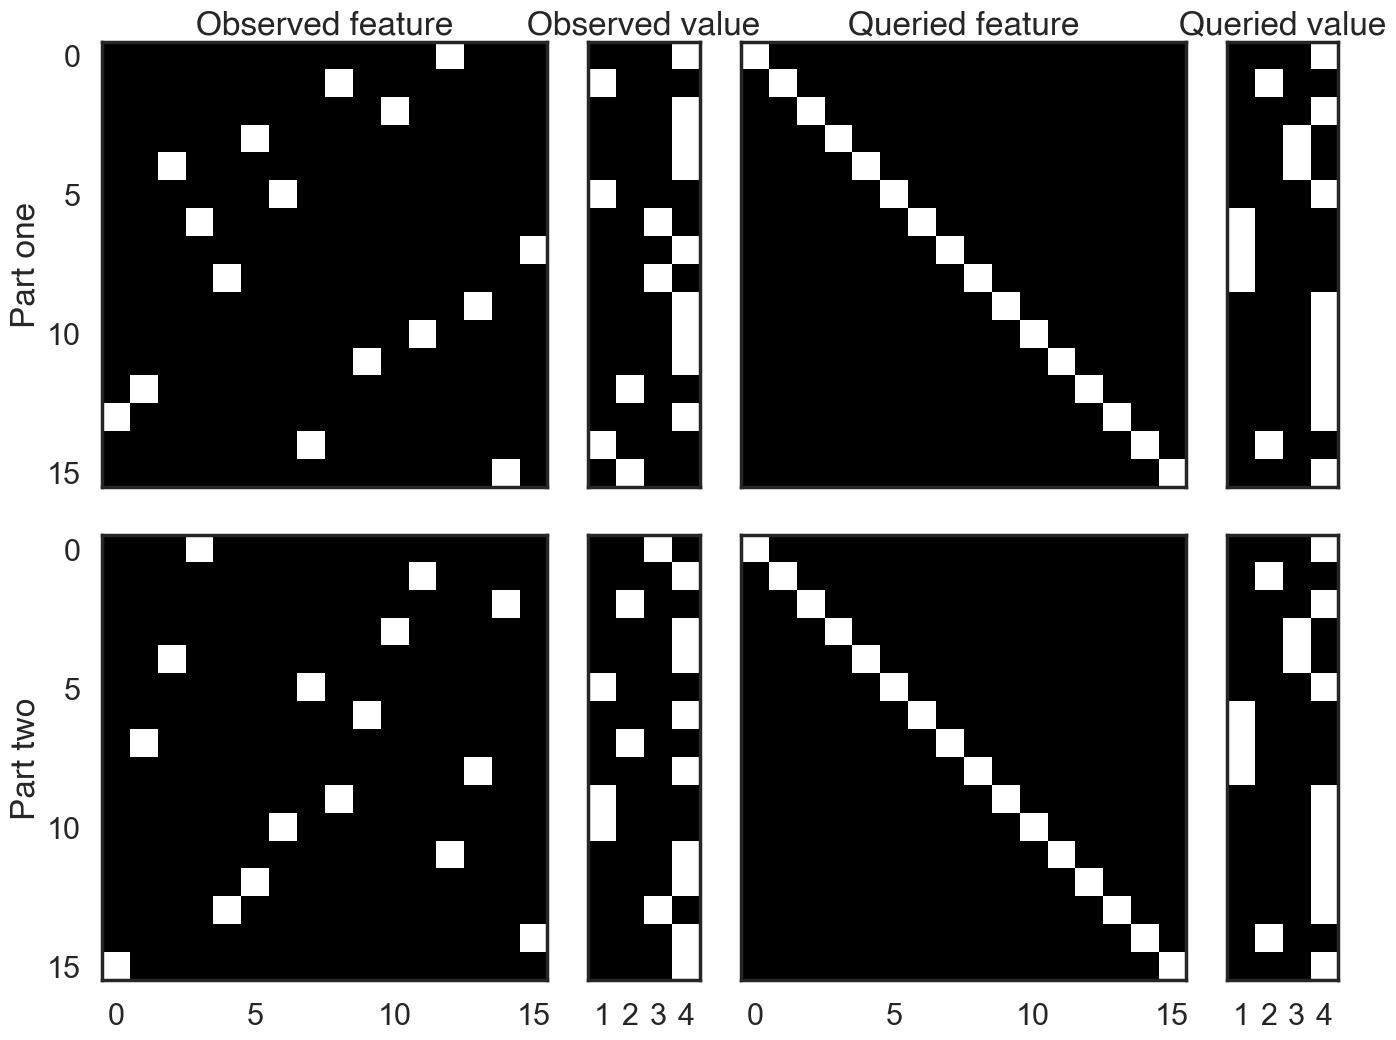
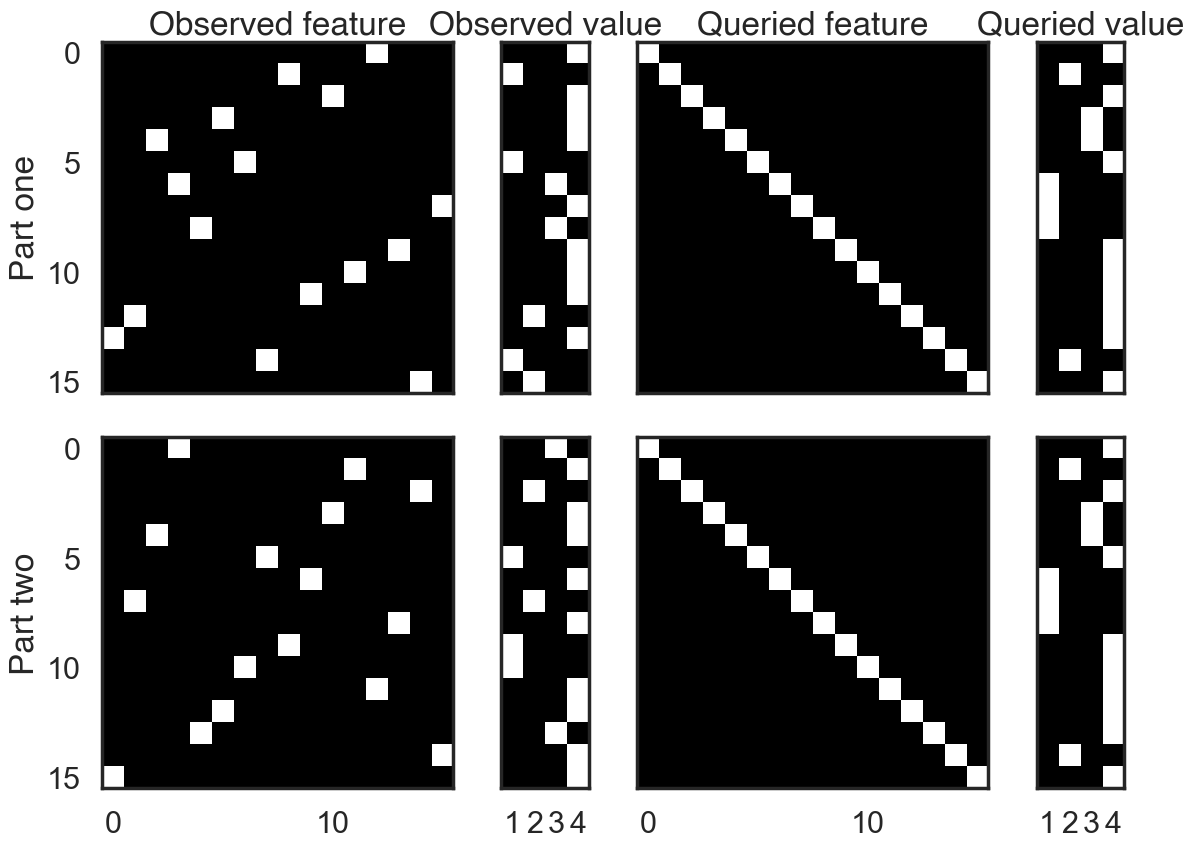
minor code

diff --git a/src/eval-group.py b/src/eval-group.py
@@ -4,6 +4,8 @@ import numpy as np
 
 from itertools import product
 from models import LCALSTM as Agent
+# from models import LCALSTM_after as Agent
+# from models import LCALSTM_after as Agent
 from task import SequenceLearning
 from exp_tz import run_tz
 from utils.params import P
@@ -11,9 +13,17 @@ from utils.io import build_log_path, load_ckpt, pickle_save_dict, \
     get_test_data_dir, get_test_data_fname, load_env_metadata
 log_root = '../log/'
 
+# exp_name = 'vary-test-penalty'
+# exp_name = 'vary-test-penalty-after-ig.3'
+# exp_name = 'vary-test-penalty-after-ig.3-enc8d4'
+# exp_name = 'familiarity-signal'
+# exp_name = 'vary-test-penalty-fixobs-rl'
 exp_name = 'vary-test-penalty'
-def_prob = None
+# def_prob = None
 n_def_tps = 0
+
+def_prob = .25
+# n_def_tps = 8
 
 seed = 0
 supervised_epoch = 600
@@ -22,9 +32,13 @@ epoch_load = 1000
 n_branch = 4
 n_param = 16
 enc_size = 16
+
+# enc_size_test = 16
+# dict_len_test = 2
+# rm_mid_targ = False
+
 enc_size_test = 8
 dict_len_test = 4
-# enc_size_test = enc_size
 rm_mid_targ = False
 
 penalty_random = 1
@@ -45,11 +59,14 @@ n_examples_test = 256
 similarity_max_test = .9
 similarity_min_test = 0
 
+permute_observations = True
+
 '''loop over conditions for testing'''
 subj_ids = np.arange(15)
 
 penaltys_train = [4]
-penaltys_test = np.array([0, 2, 4])
+# penaltys_test = np.array([0, 2, 4])
+penaltys_test = np.array([2])
 
 # slience_recall_times = [range(n_param), None]
 slience_recall_times = [None]
@@ -93,13 +110,15 @@ for scramble in scramble_options:
                     n_param=p.env.n_param, n_branch=p.env.n_branch, pad_len=pad_len_test,
                     p_rm_ob_enc=p_rm_ob_enc_test, p_rm_ob_rcl=p_rm_ob_rcl_test,
                     similarity_max=similarity_max_test, similarity_min=similarity_min_test,
-                    similarity_cap_lag=p.n_event_remember,
+                    similarity_cap_lag=p.n_event_remember, permute_observations=permute_observations
                 )
                 # load the agent back
+                x_dim = task.x_dim
+                if attach_cond != 0:
+                    x_dim += 1
                 agent = Agent(
-                    input_dim=task.x_dim, output_dim=p.a_dim,
-                    rnn_hidden_dim=p.net.n_hidden, dec_hidden_dim=p.net.n_hidden_dec,
-                    dict_len=dict_len_test
+                    input_dim=x_dim, output_dim=p.a_dim, rnn_hidden_dim=p.net.n_hidden,
+                    dec_hidden_dim=p.net.n_hidden_dec, dict_len=dict_len_test
                 )
 
                 agent, optimizer = load_ckpt(

diff --git a/src/examples/stimuli-representation.py b/src/examples/stimuli-representation.py
@@ -32,9 +32,24 @@ x, y = X[i], Y[i]
 cmap = 'bone'
 
 x_split = np.split(x, (n_param, n_param + n_branch), axis=1)
+episodic_sim = False
+if episodic_sim:
+    x_split[0][:n_param] = np.vstack(
+        [x_split[0][:n_param][0], np.eye(n_param, k=-1)[1:, :]]
+    )
+    x_split[0][n_param:] = np.vstack(
+        [x_split[0][n_param:][0], np.eye(n_param, k=-1)[1:, :]]
+    )
+    for t in range(n_param):
+        obs_feature_id_p1 = np.argmax(x_split[0][:n_param][t])
+        x_split[1][:n_param][t] = y[obs_feature_id_p1]
+        obs_feature_id_p2 = np.argmax(x_split[0][n_param:][t])
+        x_split[1][n_param:][t] = y[obs_feature_id_p2]
+
+
 mat_list = x_split + [y]
 f, axes = plt.subplots(
-    2, 4, figsize=(14, 11), sharey=True,
+    2, 4, figsize=(12, 9), sharey=True,
     gridspec_kw={
         'width_ratios': [n_param, n_branch, n_param, n_branch],
         'height_ratios': [n_param, n_param]

diff --git a/src/examples/event-empirical-similarity.py b/src/examples/event-empirical-similarity.py
@@ -11,13 +11,13 @@ sns.set(style='white', palette='colorblind', context='poster')
 '''study inter-event similarity as a function of n_branch, n_param'''
 n_param = 16
 n_branch = 4
-n_samples = 500
+n_samples = 5
 similarity_cap_lag = 2
 
 def_prob = .25
-similarity_pairs = [[0.0, .4], [0, .9], [.35, .9]]
+similarity_pairs = [[0, .125], [0.0, .4], [0, .9], [.35, .9]]
 
-similarity_labels = ['low', 'normal', 'high']
+similarity_labels = ['zero', 'low', 'normal', 'high']
 n_conditions = len(similarity_pairs)
 
 event_sims = np.zeros((n_conditions, n_samples - 1))
@@ -54,3 +54,9 @@ ax.set_title('Event similarity by condition')
 ax.set_xlabel('Event similarity')
 sns.despine()
 f.tight_layout()
+
+
+# x = [0, 1]
+# x.pop(0)
+# x.append(2)
+# x

diff --git a/src/mvpa-run.py b/src/mvpa-run.py
@@ -38,7 +38,7 @@ def compute_matches(proba_, target_):
     return matches, match_rate
 
 
-exp_name = 'vary-training-penalty'
+exp_name = 'vary-test-penalty'
 def_prob = .25
 
 # exp_name = 'vary-schema-level'
@@ -62,7 +62,7 @@ p_rm_ob_enc_load = .3
 p_rm_ob_rcl_load = 0
 
 # testing params
-enc_size_test = 16
+enc_size_test = 8
 pad_len_test = 0
 p_test = 0
 p_rm_ob_enc_test = p_test
@@ -72,10 +72,10 @@ slience_recall_time = None
 similarity_max_test = .9
 similarity_min_test = 0
 n_examples_test = 256
-subj_ids = np.arange(15)
+subj_ids = np.arange(1)
 
 penalty_test = 2
-penalty_train = 2
+penalty_train = 4
 
 n_subjs = len(subj_ids)
 DM_qsources = ['EM only', 'both']
